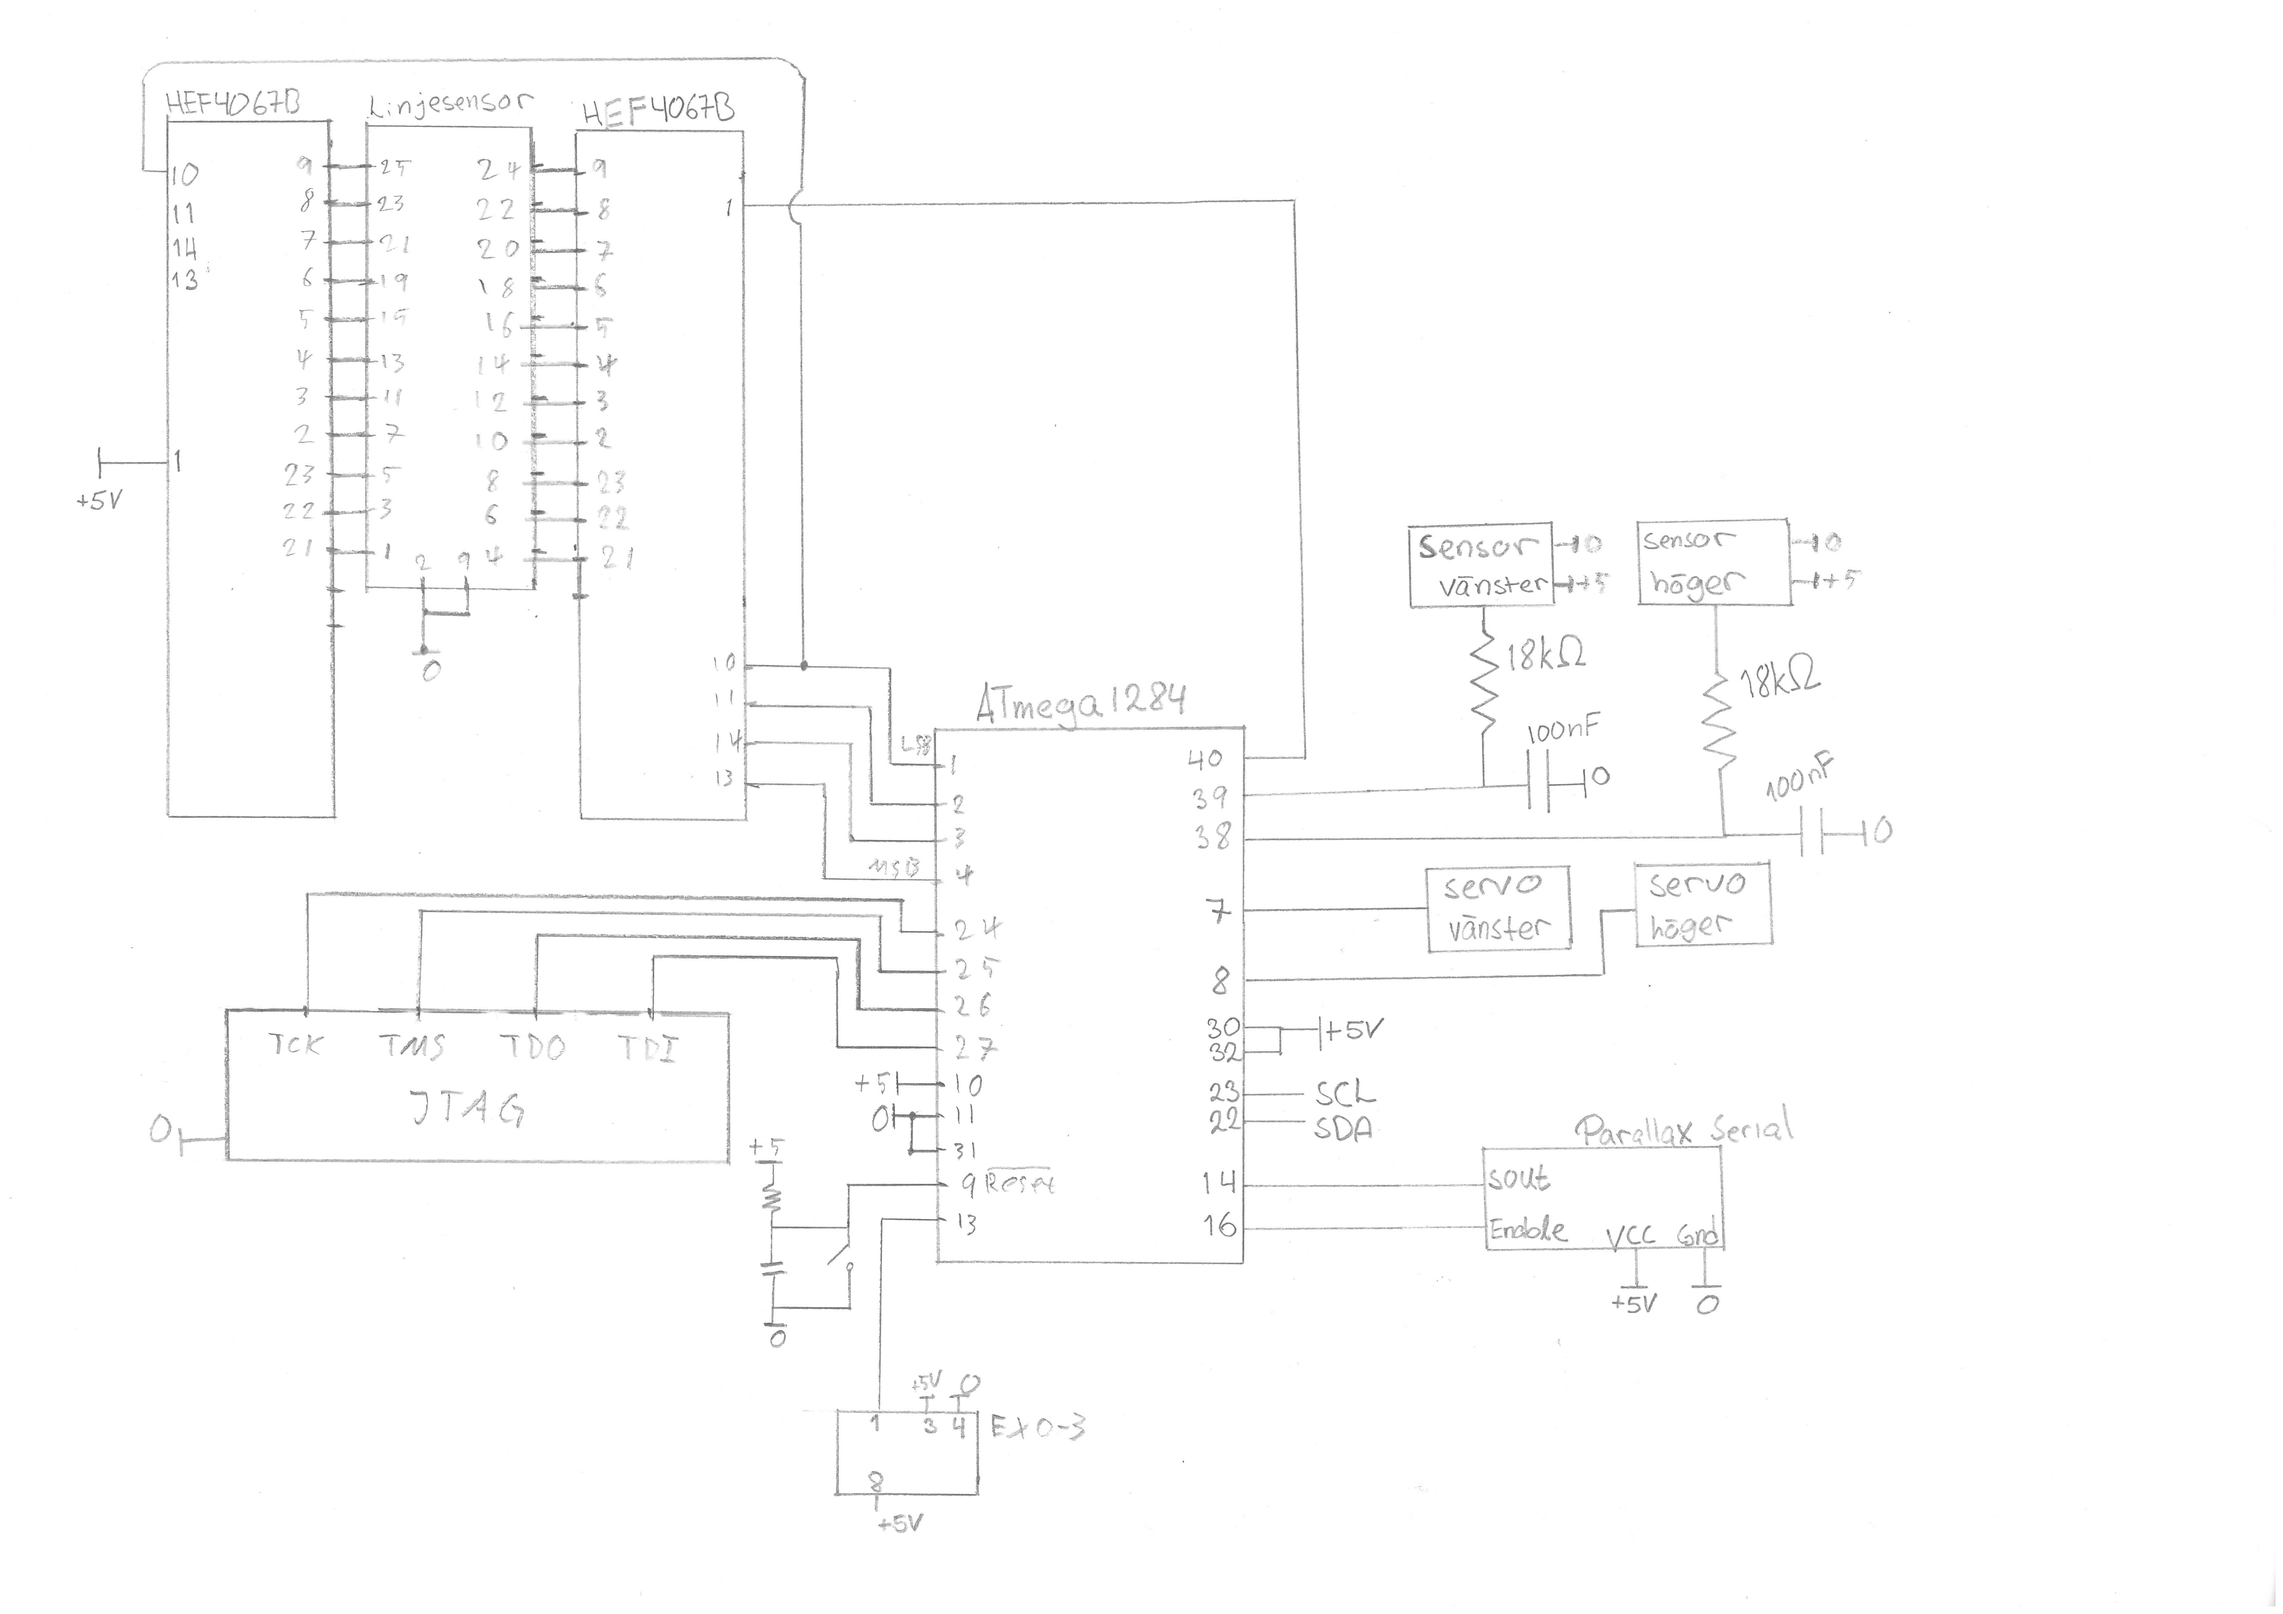
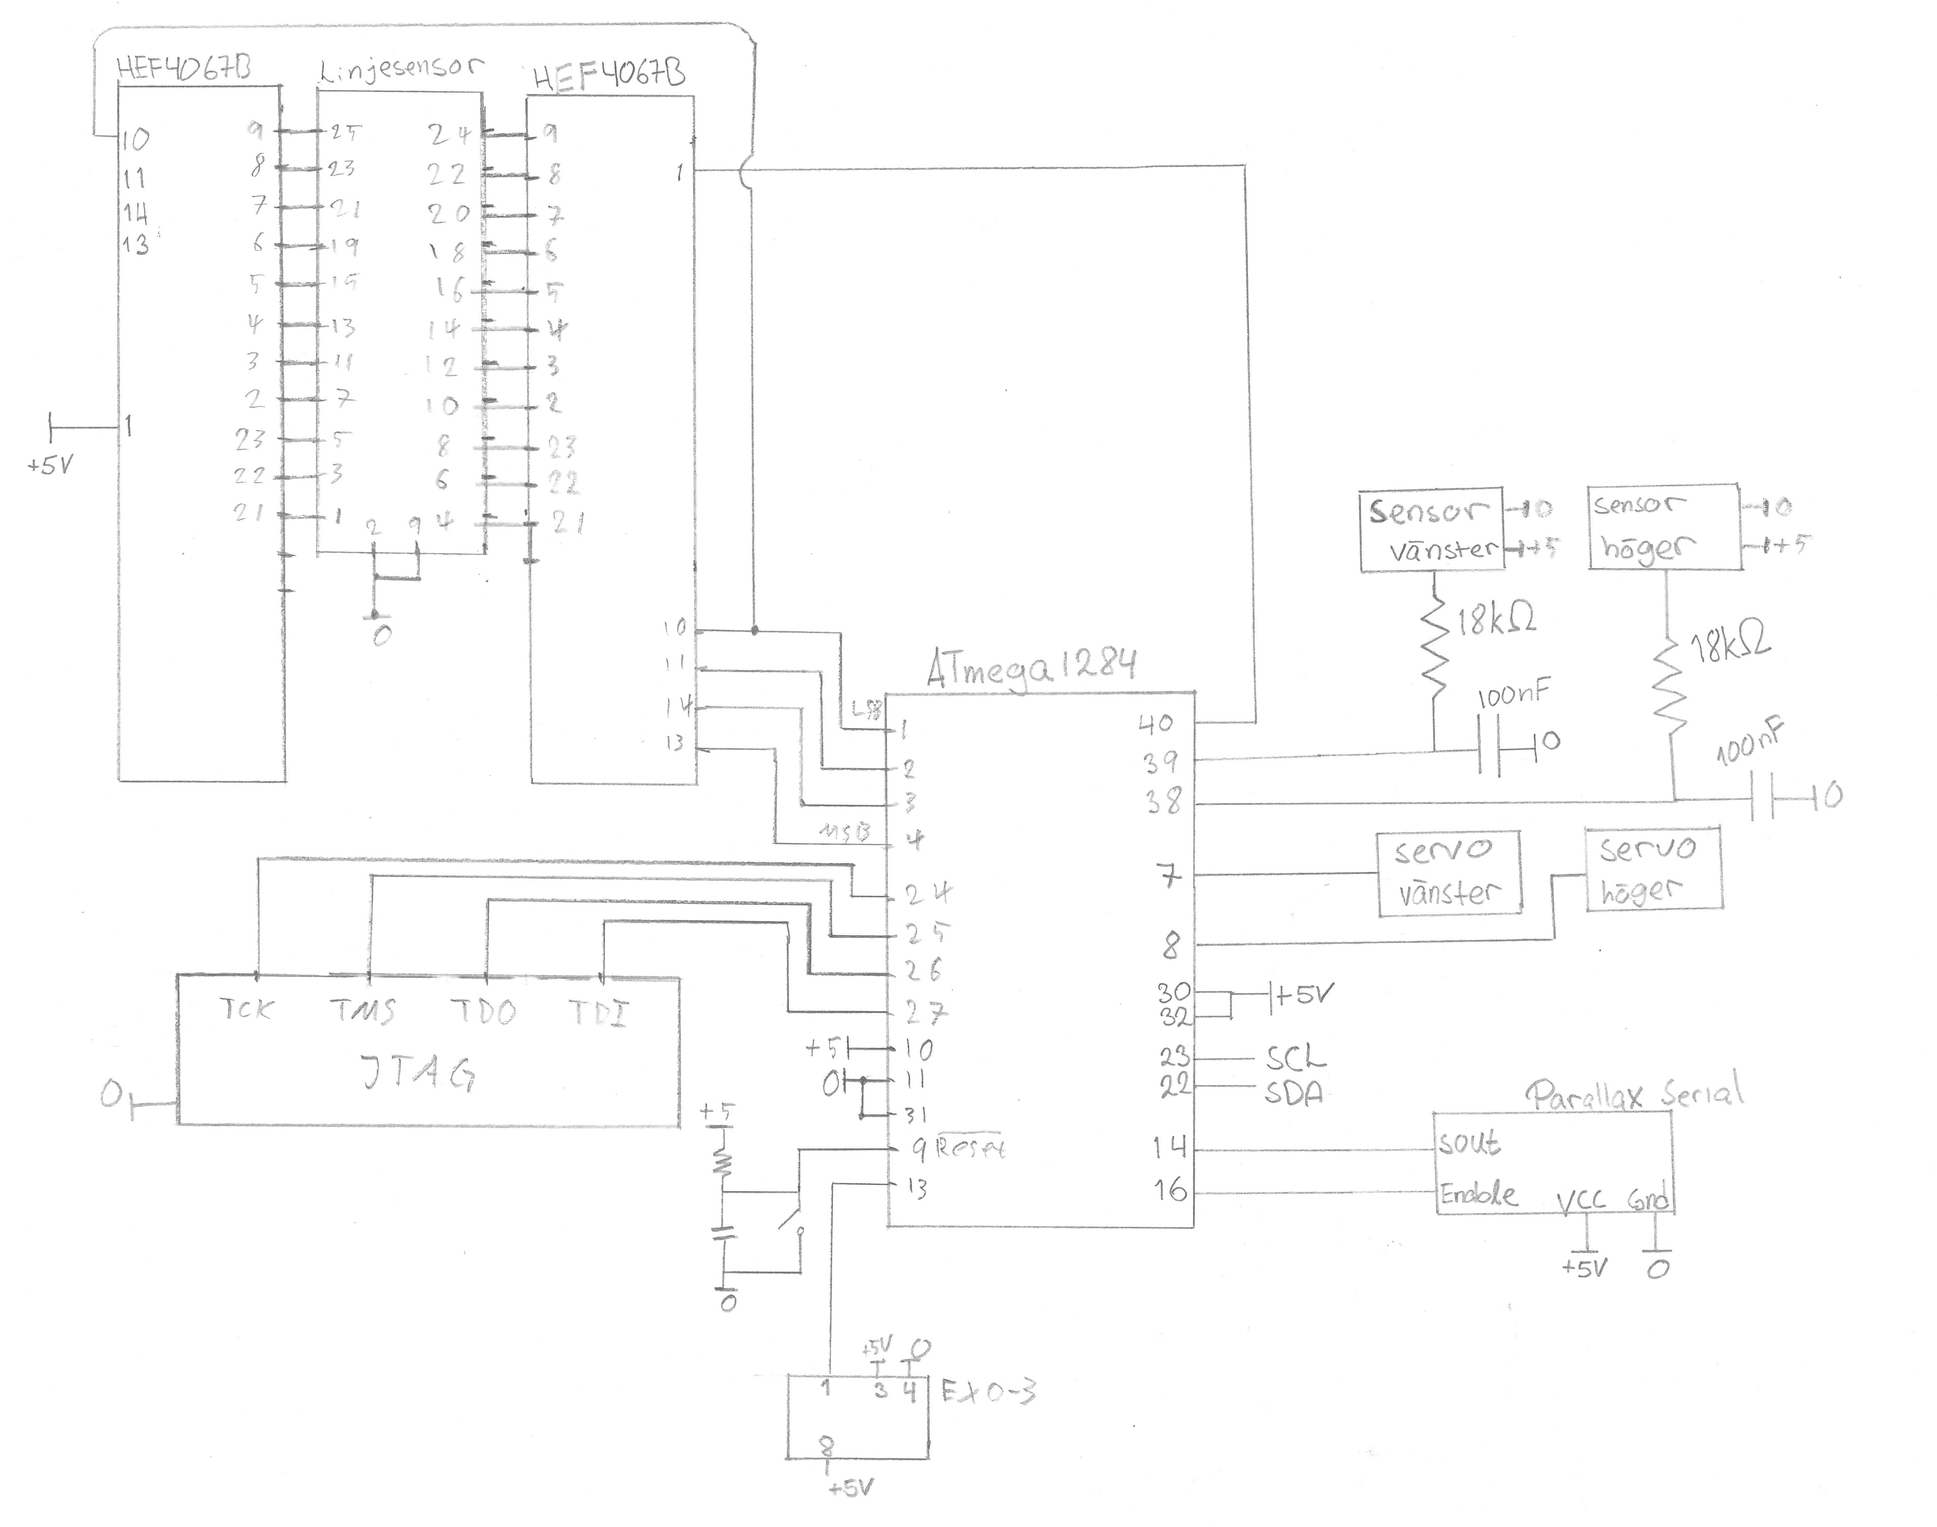
la till kopplings för chassi och skrivit om avsnitten i början lite

diff --git a/Tek-Dok/Teknisk-Dokumentation-Grupp-1.tex b/Tek-Dok/Teknisk-Dokumentation-Grupp-1.tex
@@ -87,26 +87,28 @@ Projektet gjordes med avsikten att ge studenterna bildning och erfarenhet att ut
 
 
 \section{Produktbeskrivning}
-Produkten är en robot ihopbyggd av ett chassi av plexiglas varpå fyra hjul, sensorer, en arm och kretskort är fastmonterad, utöver detta finns en programvara för övervakning och styrning av roboten.
+Produkten är en robot bestående av ett chassi av plexiglas varpå fyra hjul, sensorer, en arm och kretskort. Utöver detta finns en programvara för övervakning och manövrering av roboten.
 
-Roboten har som avsikt att användas i ett lager där den genom beordning manuellt eller autonomt hämtar och lämtar lagervaror. Lagerarbetet görs genom att följa svartmarkerad linje på marken där stationer är markerade med ett svart sträck rakt ut åt det håll stationen är tillsammans med en RFID-tag för att roboten att kunna identifiera stationen. Utefter preferens kan den styras manuellt med programvaran eller köra och hämta/lämna föremål automatiskt.
+Roboten är tänkt att användas i ett lager där den autonomt eller genom manuell beordring hämtar och lämnar lagervaror. Lagerarbetet görs genom att följa en svart linje längs marken där stationer är markerade med ett svart sträck, vinkelrätt banan, i den riktning stationen befinner sig. Undertill stationerna finns en RFID-tagg för identifiering av stationstypen, upplockning eller avlämning.
+
+Skriva mer????
 
 \section{Teori}
 \emph{Beskrivning av regleralgoritmer m.m.}
 
 \section{Systemöversikt}
-Roboten är uppbyggd av fyra olika delsystem (chassi, sensor, arm och kommunikation) som vart och ett har sin specifika uppgift att sköta. Förutom robotens fyra delsystem har också en programvara till en dator utvecklats för övervakning och styrning. Roboten kan både operera i ett fjärrstyrt och i ett autonomt läge, här kan man välja om man endast vill ha automatisk linjeföljning, endast automatiskt föremålsupplockning eller om man vill ha all funktionallitet automatisk.
+Roboten är uppbyggd av fyra olika delsystem kallade chassi, sensor, arm och kommunikation där var och en av dem har sin specifika uppgift att sköta. Förutom robotens fyra delsystem har en programvara till en dator utvecklats för övervakning och styrning. Roboten kan både operera i ett fjärrstyrt, fullständigt manuellt läge och i ett autonomt läge, där möjligheten att styra vissa delar manuellt fortfarande ges.
 
 \subsection{Delsystemsöversikt}
 Sensorenheten övervakar kontinuerligt de olika sensorerna roboten har och omvandlar den råa sensordatan till systemanvändbara enheter för att sedan kunna skicka dessa vidare till andra delsystem vid förfrågan.
 
-Kommunikationsenheten fungerar som en förbindelselänk mellan roboten och omvärlden. Den kan bli tillfrågad och skicka bekräftelse om de beslut som roboten gör samt status över de olika delsystemen och omgivningsobservationer. Vidare är kommunikationsenheten utrustad med en display vilken används för att visa upp en del av den sensordata som samlas in.
+Kommunikationsenheten fungerar som en förbindelselänk mellan roboten och omvärlden. Den kan bli tillfrågad att skicka bekräftelser om de beslut som roboten tar samt status för de olika delsystemen och omgivningsobservationer. Vidare är kommunikationsenheten utrustad med en display vilken används för att visa upp en del av den sensordata som samlas in.
 
-Chassienheten fungerar som det handlingsbeslutande organet på roboten. Den vet vid autonomt läge hur roboten ska agera vid olika situationer. Den styr också hjulen på roboten, det vill säga att den genom sensordata och reglering beräknar hastighet på hjulen för att kunna svänga och hålla kursen längst banan.
+Chassienheten fungerar som det handlingsbeslutande organet på roboten. Den vet vid autonomt läge hur roboten ska agera vid olika situationer. Chassienheten samverkar med sensorenheten och ser till att roboten följer linjen, genom reglering av hjulens gaspådrag, baserat på den sensordata sensorenheten kan tillhandahålla. 
 
-Armenheten kan vid en avhämtningsstation, utifrån identifiering av var ett objekt befinner sig, kunna plocka upp detta med robotarmen som är monterad på chassit. Den har kontroll över samtliga servon och vet hur dessa ska röras vid kommando. Med hjälp av inverterad kinematik kan den, vid automatiskt läge, beräkna hur vardera led skall röra sig för nå objektet och för att plocka upp det.
+Armenheten kan vid en upplockningsstation, med vetskapen om var ett objekt befinner sig, kunna plocka upp objektet med robotarmen. Den har kontroll över samtliga servon och vet hur dessa ska röras vid kommando. Med hjälp av inverterad kinematik kan den, vid automatiskt läge, beräkna hur vardera led ska röra sig för nå objektet för att sedan plocka upp det.
 
-Den datorbaserade programvaran består av ett instrumentbräde där användaren kan se robotens vilka beslut som tas av roboten samt vilka sensordata de olika sensorerna tar in. Vidare kan roboten styras utifrån det grafiska gränssnittet, med avseende på både robotarm och chassi.
+Den datorbaserade programvaran består av ett instrumentbräde där användaren kan se vilka beslut som tas av roboten samt vilka sensordata de olika sensorerna får in. Vidare kan roboten, inklusive armen, styras genom kommandon i det grafiska gränssnittet.
 
 \subsection{Sensorer och sensorplacering}
 

diff --git a/Tek-Dok/arm.tex b/Tek-Dok/arm.tex
@@ -102,7 +102,7 @@ När sinus- och cosinusvärdena är kända för både $\alpha_{1}$ och $\alpha_{
 
 Eftersom $sin(\alpha_{2})$ har två lösningar uppstår således dubbla lösningar till ekvationssystemet. Därför är det viktigt att stämma av resultatet mot definitionsmängden $\mathbf{A}$.
 
-Väl punkten $P$ och $T$ samt vinklarna $\alpha_{1}$ och $\alpha_{2}$ är kända ges $\alpha_{3}$ enligt ekvation \ref{eq:calc_alpha3}. Därmed är beräkningarna är klara.
+Väl punkten $P$ och $T$ samt vinklarna $\alpha_{1}$ och $\alpha_{2}$ är kända ges $\alpha_{3}$ enligt ekvation \ref{eq:calc_alpha3}. Därmed är beräkningarna klara.
 
 \begin{equation}
 	\label{eq:calc_alpha3}

diff --git a/Tek-Dok/chassi.tex b/Tek-Dok/chassi.tex
@@ -17,7 +17,7 @@ Chassit har flera funktioner som anges i följande punktlista:
 
 \subsection{Kopplingsschema}
 
-%\nyBild{kopplingsschema_chassi.png}{Kopplingsschema för delsystem chassi}{kopplingchassi}{0.8}
+\nyBild{kopplingsschema_chassi.png}{Kopplingsschema för delsystem chassi}{kopplingchassi}{0.8}
 
 \subsection{Komponenter}
 
